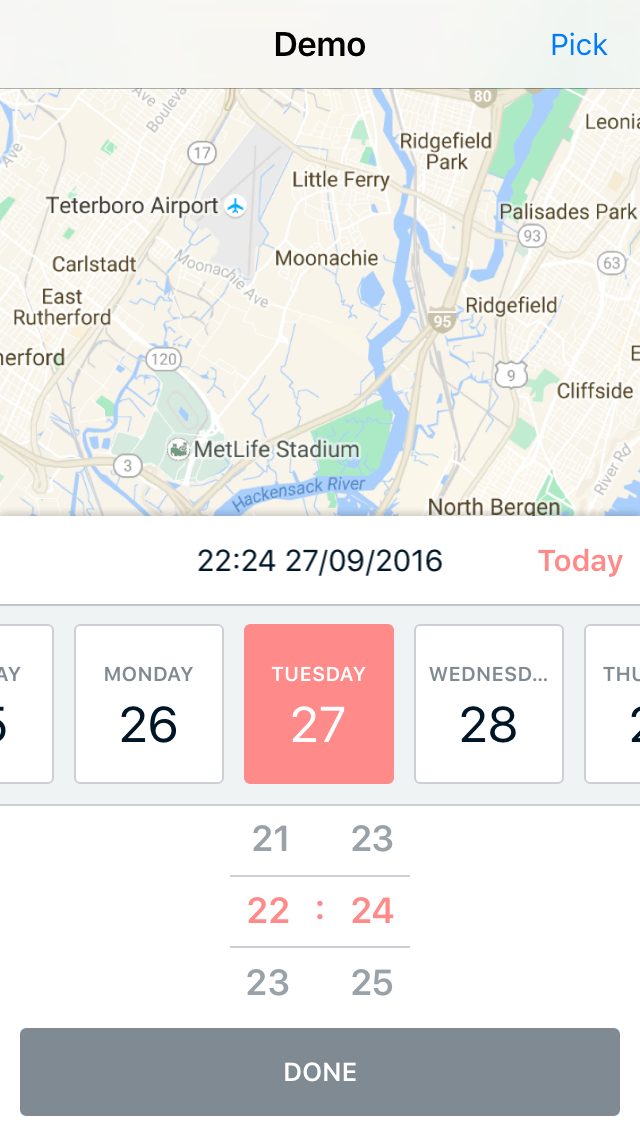
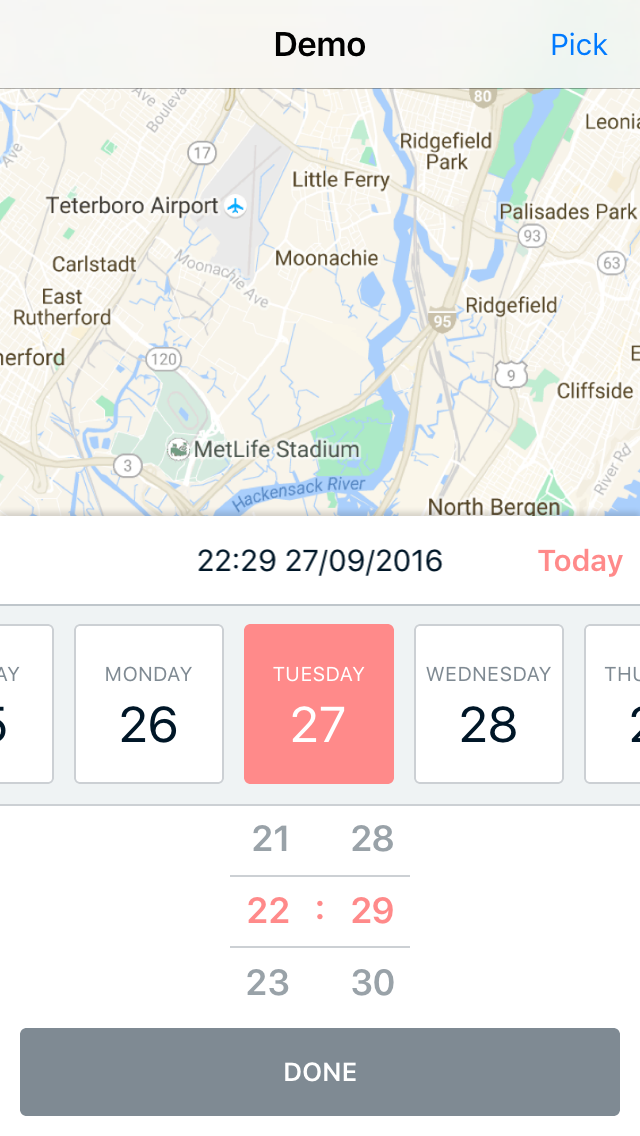
Update font for day label

diff --git a/Source/DateCollectionViewCell.swift b/Source/DateCollectionViewCell.swift
@@ -17,7 +17,7 @@ class DateCollectionViewCell: UICollectionViewCell {
     override init(frame: CGRect) {
         
         dayLabel = UILabel(frame: CGRect(x: 5, y: 15, width: frame.width - 10, height: 20))
-        dayLabel.font = UIFont.boldSystemFont(ofSize: 10)
+        dayLabel.font = UIFont.systemFont(ofSize: 10)
         dayLabel.textAlignment = .center
     
         numberLabel = UILabel(frame: CGRect(x: 5, y: 30, width: frame.width - 10, height: 40))
